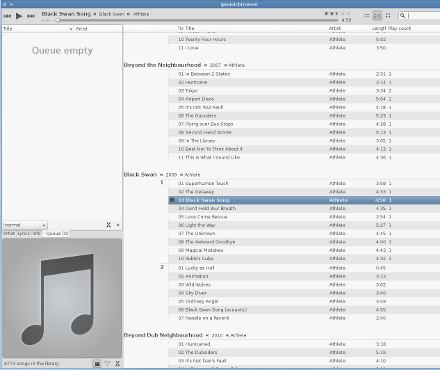
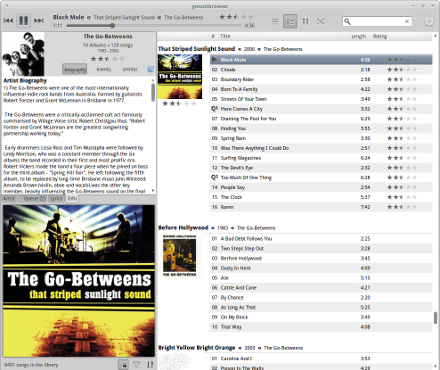
New revision with some new slides for Xubuntu.

diff --git a/slideshows/xubuntu/slides/index.html b/slideshows/xubuntu/slides/index.html
@@ -24,13 +24,17 @@
 <body>
 
 <div id="slideshow">
-	<div><a href="welcome.html"></a></div>
+	<div><a href="00_welcome.html"></a></div>
+	<div><a href="01_web.html"></a></div>
+	<div><a href="02_messaging.html"></a></div>
+	<div><a href="03_gmusicbrowser.html"></a></div>
+	<div><a href="04_office1.html"></a></div>
+
 	<div><a href="new-to-linux.html"></a></div>
 	<div><a href="xfce.html"></a></div>
 	<div><a href="app-menu.html"></a></div>
 	<div><a href="tips-beginners.html"></a></div>
 	<div><a href="more-apps.html"></a></div>
-	<div><a href="office.html"></a></div>
 	<div><a href="games.html"></a></div>
 	<div><a href="getting-help.html"></a></div>
 </div>

diff --git a/slideshows/xubuntu/slides/00_welcome.html b/slideshows/xubuntu/slides/00_welcome.html
@@ -5,7 +5,7 @@
 <div class="main">
 	<div class="content">
 		<p>You have chosen to install the latest version of Xubuntu, 11.04.</p>
-		<p>This exciting software is brought to you free of any fees, for your use and any others you want to share it with.</p>
+		<p>This exciting piece of software is brought to you free of any fees, for your use and any others you want to share it with.</p>
 		<p>Since you are installing this software using the Xubuntu Desktop CD, feel free to examine things as it installs. After the installation, the desktop will look much the same as it does now.</p>
 	</div>
 	<img class="shot" src="shots/gmusicbrowser.png" />

diff --git a/slideshows/xubuntu/slides/04_office1.html b/slideshows/xubuntu/slides/04_office1.html
@@ -1,0 +1,14 @@
+<div class="header">
+	<h1>Lighter alternatives</h1>
+</div>
+
+<div class="main">
+	<div class="content">
+		<p><em>Abiword</em> is a word processor, which can read almost all known document formats. <em>Gnumeric</em> is a spreadsheet program with an emphasis on accuracy.</p>
+		<p>While Abiword and Gnumeric are lightweight, they provide almost all of the functions of the LibreOffice suite.</p>
+		<p>AW: Applications menu -> Office -> Abiword</p>
+		<p>GN: Applications menu -> Office -> Gnumeric</p>
+	</div>
+	<img class="shot" src="shots/abiword2.png" />
+</div>
+

diff --git a/slideshows/xubuntu/slides/02_messaging.html b/slideshows/xubuntu/slides/02_messaging.html
@@ -1,0 +1,12 @@
+<div class="header">
+	<h1>Instant messaging</h1>
+</div>
+
+<div class="main">
+	<div class="content">
+		<p>Xubuntu is shipping Pidgin as the default instant messaging client.</p>
+		<p>You can connect to various protocols such as AIM, ICQ, IRC, MSN and XMPP (Google Talk). You can also use the Facebook chat and update your Twitter account via third-party plugins.</p>
+		<p>PG: Applications menu -> Internet -> Pidgin Internet Messenger</p>
+	</div>
+	<img class="shot" src="shots/gmusicbrowser.png" />
+</div>

diff --git a/slideshows/xubuntu/slides/01_web.html b/slideshows/xubuntu/slides/01_web.html
@@ -1,0 +1,14 @@
+<div class="header">
+	<h1>Your web experience</h1>
+</div>
+
+<div class="main">
+	<div class="content">
+		<p>Firefox and Thunderbird are everything you need from web applications.</p>
+		<p>They offer you the web the way you like it: high performance, easy customization and advanced security.</p>
+		<p>FF: Applications menu -> Internet -> Firefox Web Browser</p>
+		<p>TB: Applications menu -> Internet -> Thunderbird Mail/News</p>
+	</div>
+	<img class="shot" src="shots/firefox1.png" />
+</div>
+

diff --git a/slideshows/xubuntu/slides/03_gmusicbrowser.html b/slideshows/xubuntu/slides/03_gmusicbrowser.html
@@ -1,0 +1,12 @@
+<div class="header">
+	<h1>Enjoy your media</h1>
+</div>
+
+<div class="main">
+	<div class="content">
+		<p>Whether your collection is small or large, gmusicbrowser, the deafult media player in Xubuntu, can handle it!</p>
+		<p>Our version is loaded with the good-looking and easy-to-use Shimmer theme.</p>
+		<p>GMB: Applications menu -> Multimedia -> gmusicbrowser</p>
+	</div>
+	<img class="shot" src="shots/gmusicbrowser.png" />
+</div>
